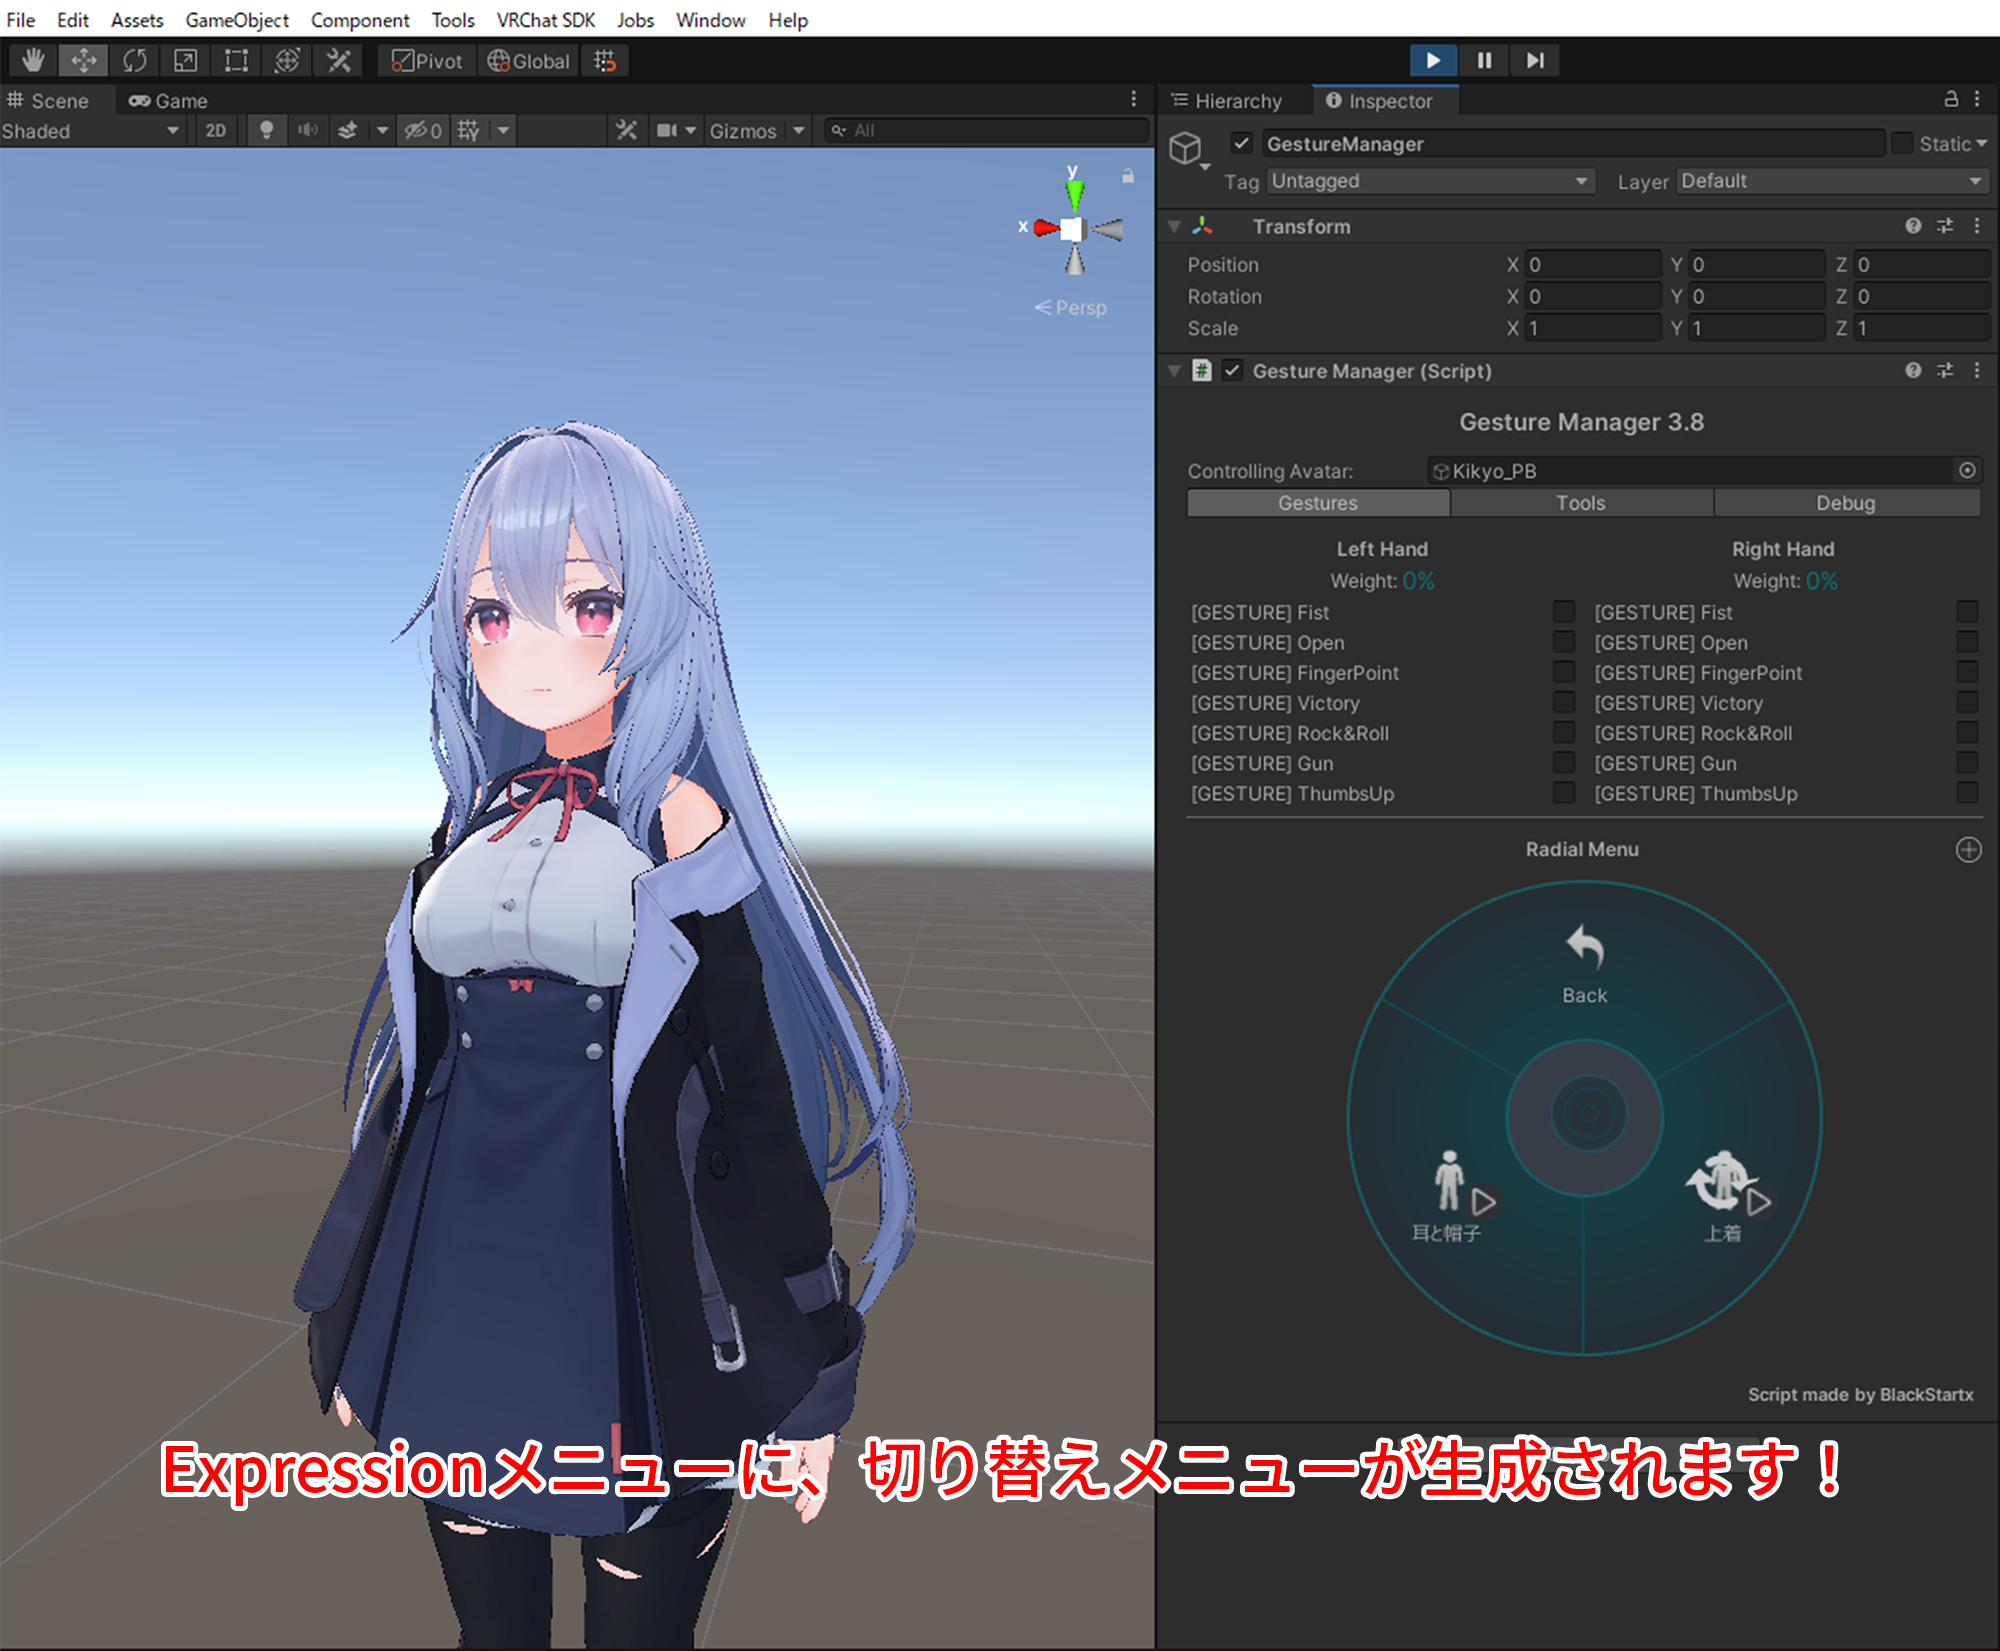
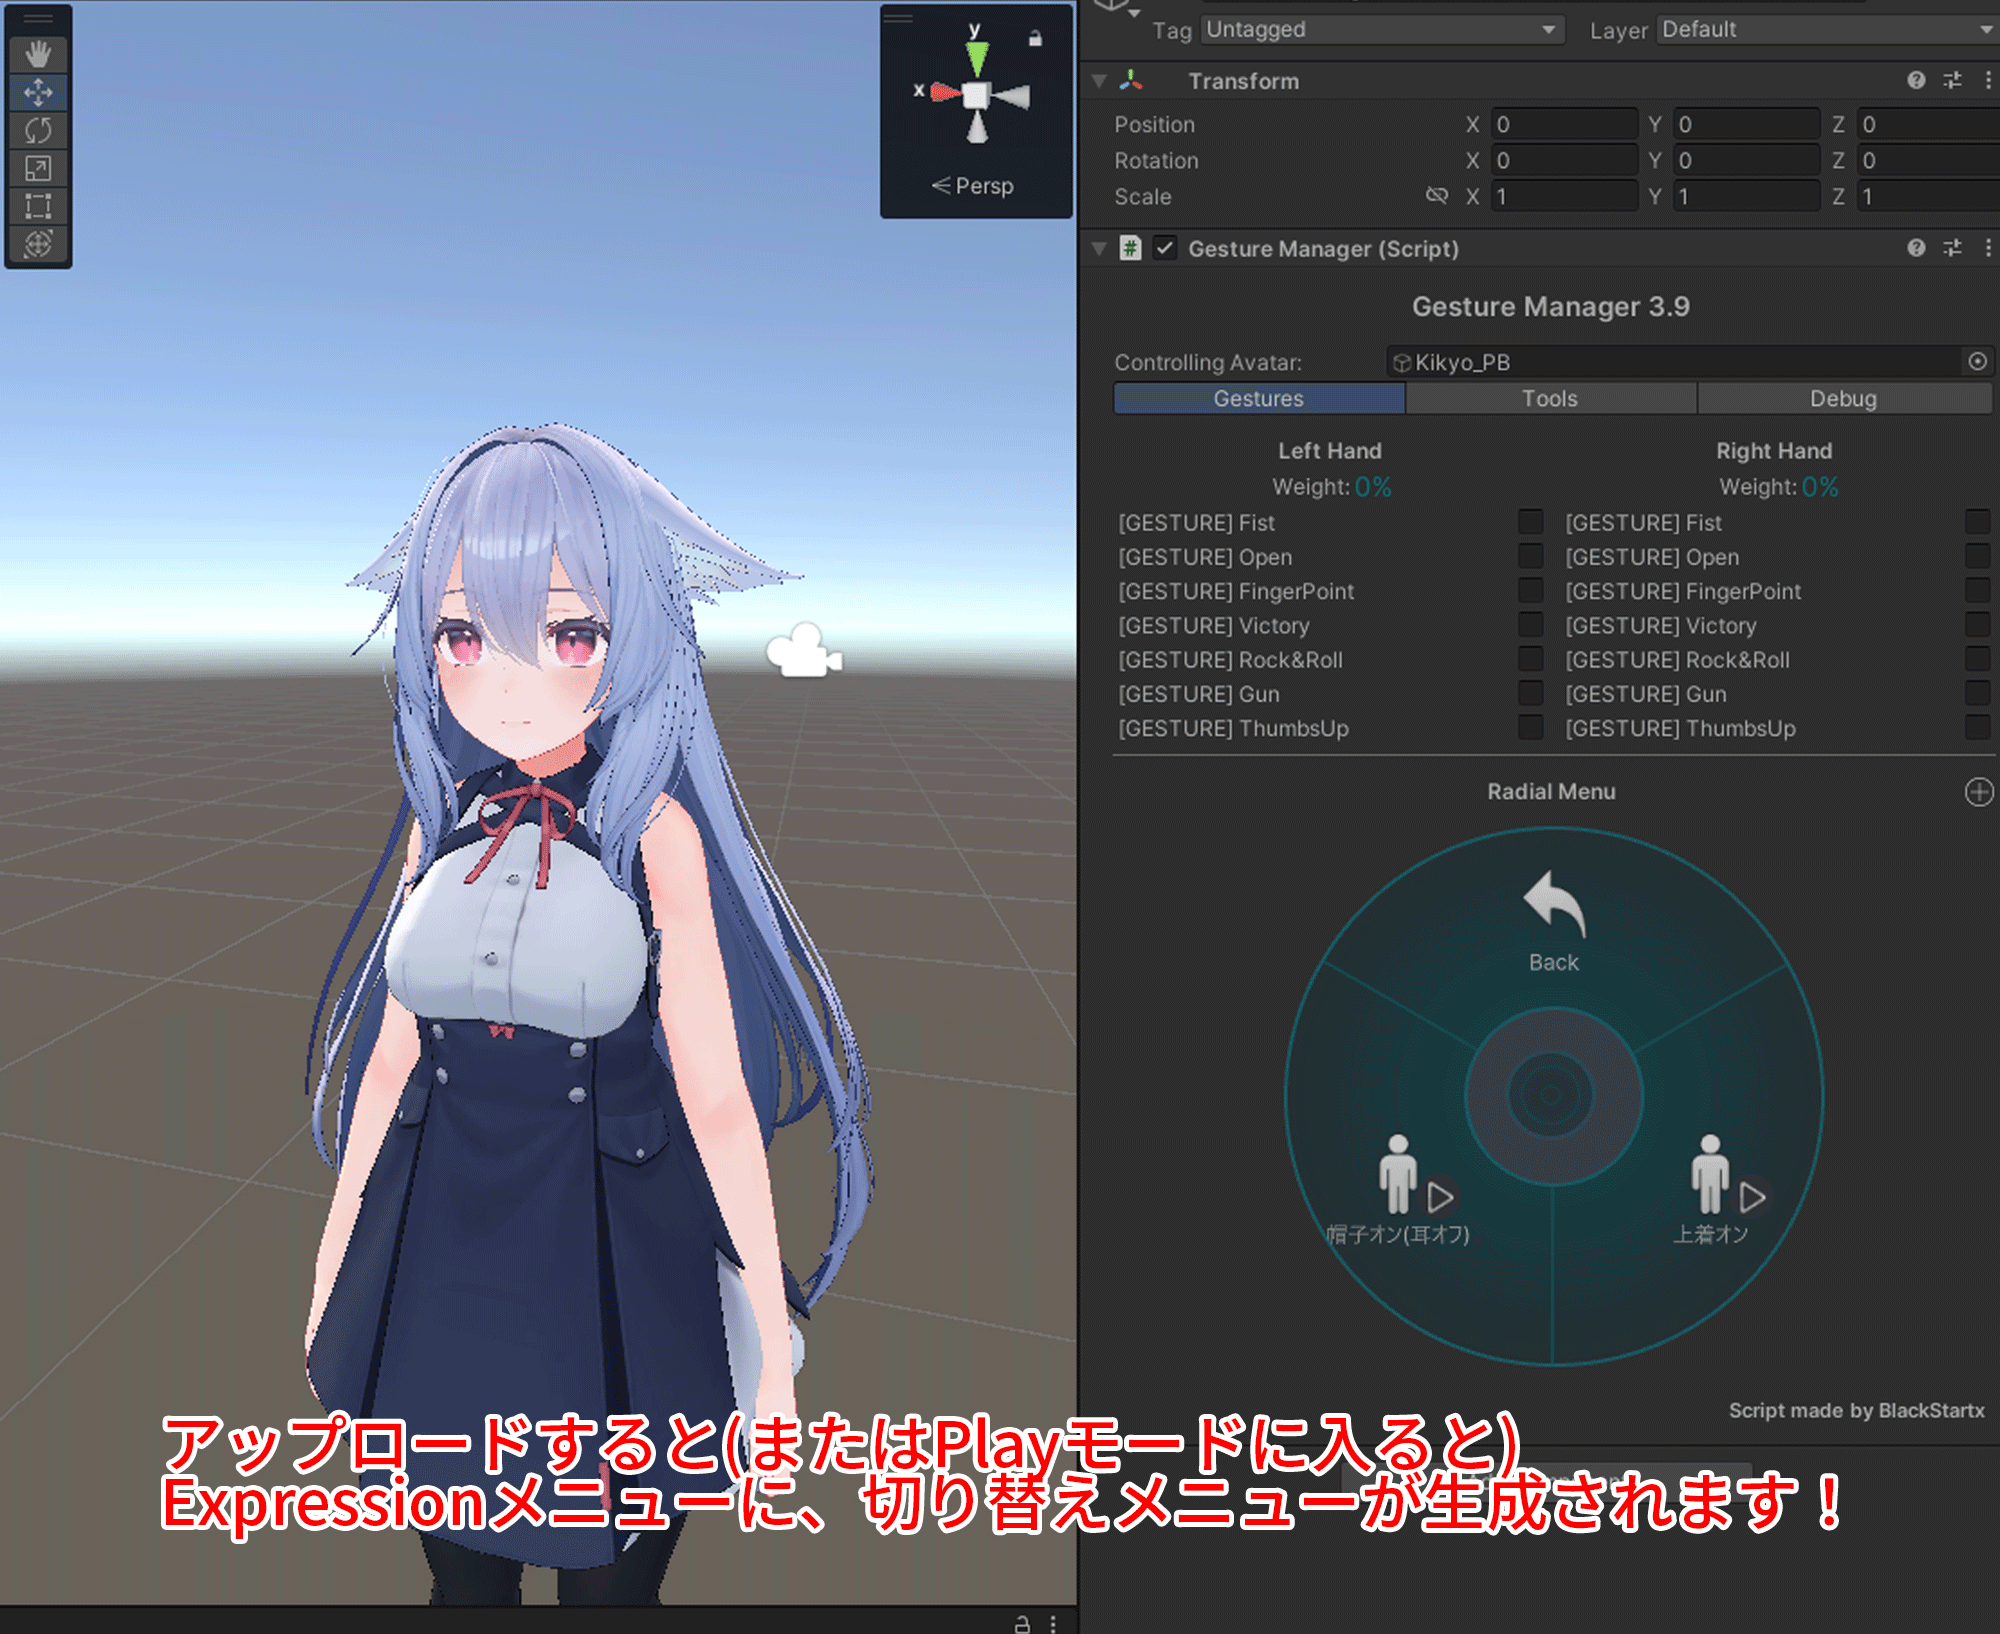
update README

diff --git a/README.md b/README.md
@@ -27,16 +27,14 @@ VCCに導入済みのパッケージ一覧が表示されるので、HotaruInven
 2. 「HotaruInventrySystemに追加」を押します。複数選択も可能です。(複数オブジェクトをまとめてオンオフするアニメーションが生成されます。)
 ![SelectAndAdd](Website/Images/SelectAndAdd.png)
 
-3. 表示されたウィンドウ上で、グループ名と、デフォルトでオンにするかどうかを設定し、「アニメーションを作成」ボタンを押します。
-このウィンドウを見失ったときは、Unity画面上部の「Tools > HotaruInventrySystem」から、再度開けます。
+3. 表示されたウィンドウ上で、グループ名、ワールド移動時の保存設定、初期状態の表示設定を設定します。
 <img src="Website/Images/SetGroupNameAndDefaultState.png" width="400">
 
-4. アバターの子に「(生成日時)_HotaruInventrySystem」というオブジェクトが生成されていれば完了です！
-作成したアニメーションを削除したいとき、再設定したいときは、この「(生成日時)_HotaruInventrySystem」オブジェクトを削除してください。
-![Complete](Website/Images/Complete.png)
-
-設定したオブジェクトのオンオフは、Expressionメニュー(Radialメニュー)から切り替えられます。
+4. 上記の設定が完了した状態でアバターをアップロードすれば、Expressionメニュー(Radialメニュー)に設定が反映されます。
 ![MoveCheck](Website/Images/MoveCheck.png)
+
+5. アバターの子に生成された「Hotaru Inventry System」のInspectorを開くか、Unity画面上部の「Tools > HotaruInventrySystem」を開いくことで、一度設定した内容を再度編集できます。
+![EditAfterSetting](Website/Images/EditAfterSetting.png)
 
 ## 更新情報
 - v1.0.0  リリース
@@ -48,5 +46,7 @@ VCCに導入済みのパッケージ一覧が表示されるので、HotaruInven
 - v1.0.6  ツール内の誤字の修正
 - v1.0.7  Unity Editor再起動時などに、AnimatorControllerのデータが消える問題を修正
 - v1.0.8  Unity Editor再起動時などに、生成されたrootExMenu内のSubmenuAssetがNoneになる(参照が外れる)問題を修正
+- v2.0.0  アニメーションの生成をアップロード時に実行するように変更。グループ内の各オブジェクトについてオンオフ状態を個別に設定できるように変更。設定を後から編集できるように変更。
+- v2.0.1  オンオフ状態をワールド移動時に保存するかどうかを設定できるように変更
 ## ライセンス
 [LICENSE](LICENSE.md)
